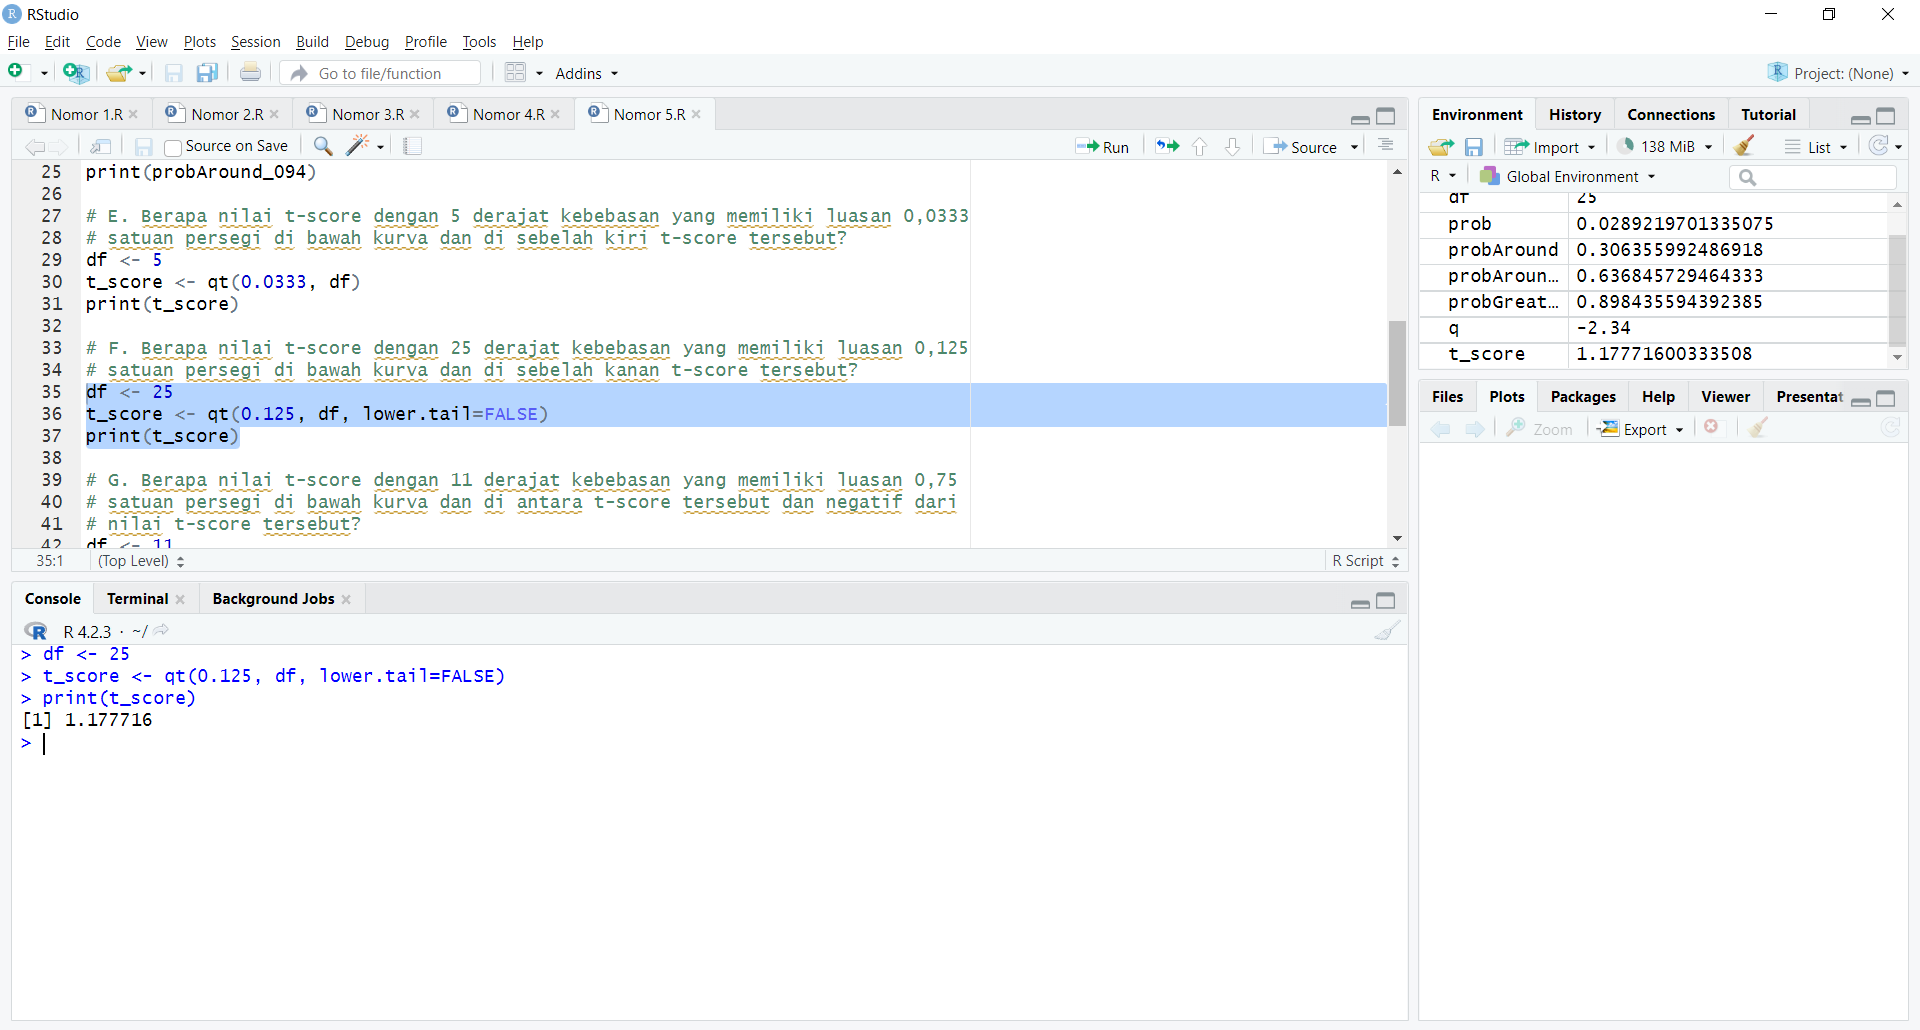
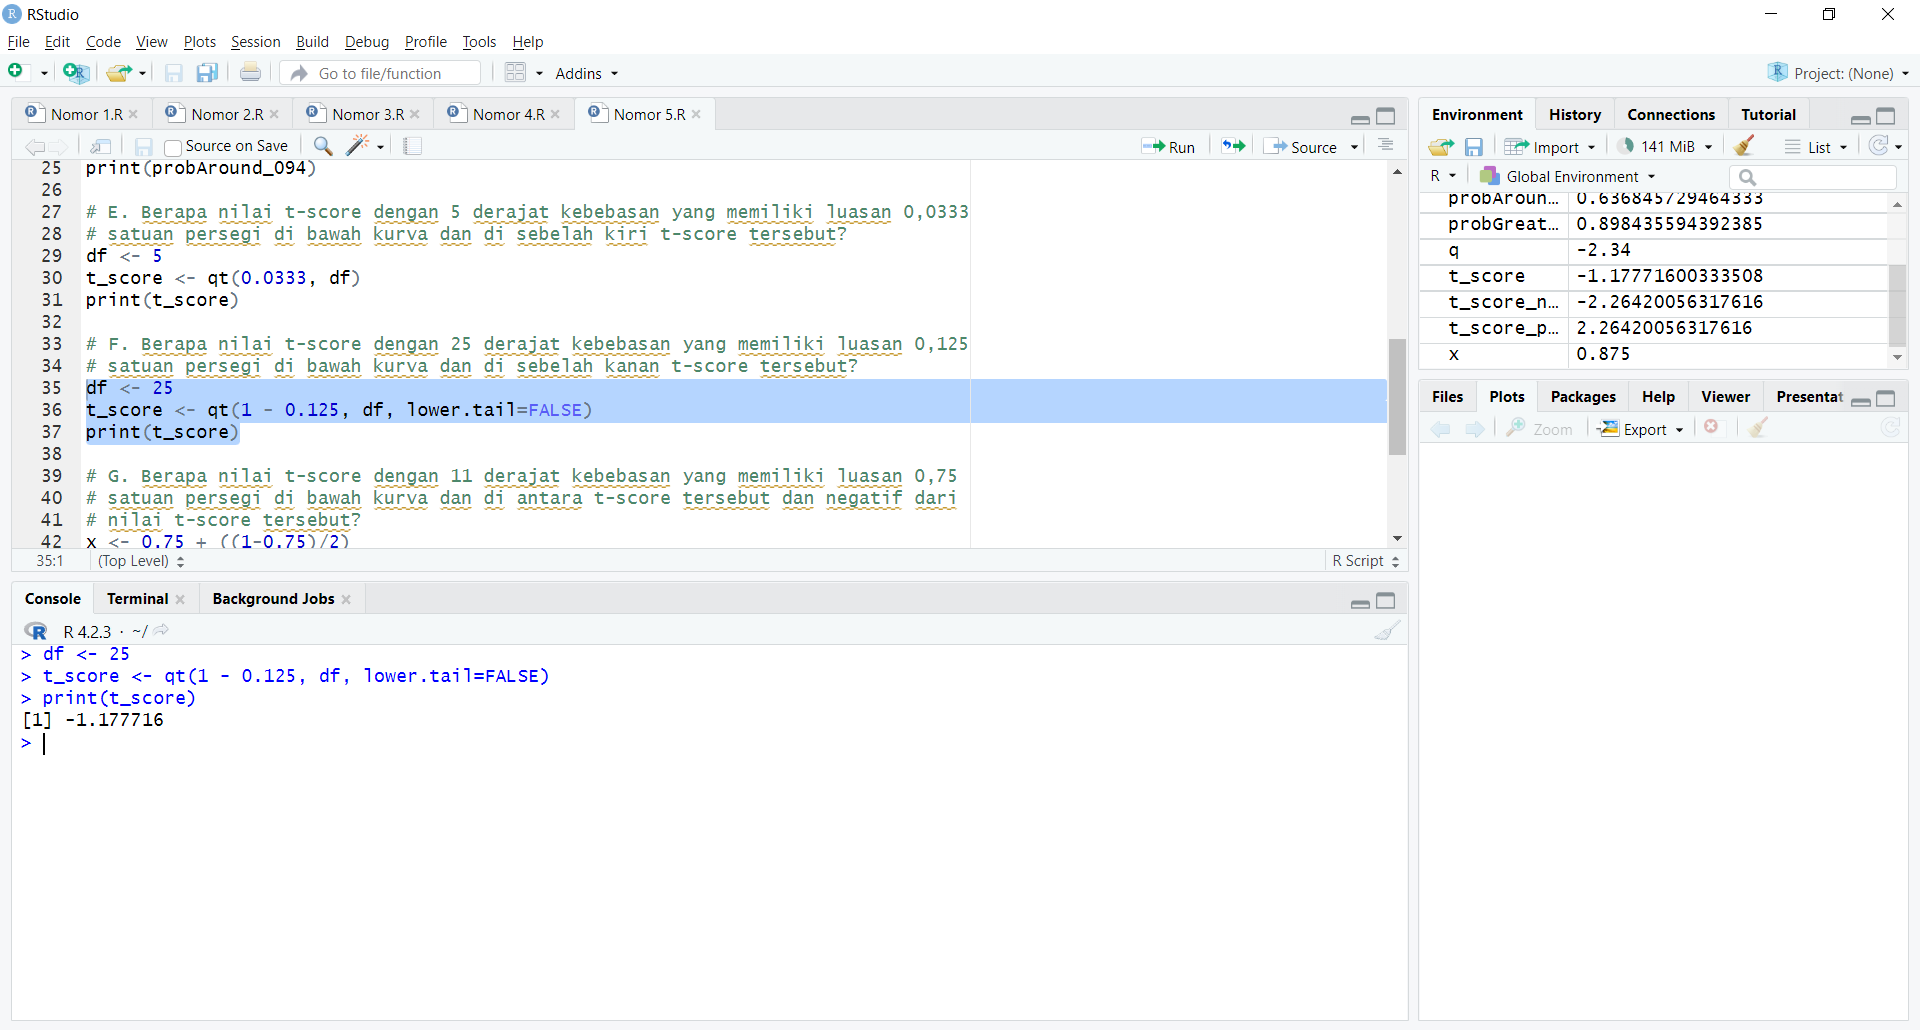
Fix Readme, add explanation, and image

diff --git a/README.md b/README.md
@@ -8,6 +8,8 @@ maka:
 
 ### A. Bagaimana pendistribusian banyak bayi laki-laki? Tentukan distribusi denganparameter yang sesuai.
 
+untuk mencari hasil distribusi, kita akan menggunakan fungsi ``dbinom()``
+
 ```R
 n <- 10
 p <- 0.488
@@ -20,6 +22,8 @@ Result:
 
 ### B. Berapa probabilitas bahwa tepat tiga bayi di antaranya berjenis kelamin lakilaki?
 
+untuk solusi tersebut kita akan menggunakna ``dbinom()`` dengan nilai **x** nya adalah 3
+
 ```R
 probTigaLakiLaki <- dbinom(3, n, p)
 print(probTigaLakiLaki)
@@ -28,6 +32,8 @@ Result:
 ![Hasil 2](https://github.com/DJumanto/Prak1_Probstat2023_C_5025211214/blob/main/Nomor%201/B.png?raw=true)
 
 ### C. Berapa probabilitas bahwa kurang dari tiga bayi di antaranya berjenis kelamin laki-laki?
+
+untuk mencari probabilitas kurang dari 3 bayi adalah laki-laki atau tidak laki-laki adalah dengan menggunakan ``pbinom()`` dengan value **q** adalah 2
 
 ```R
 probKurangDuaLakiLaki <- pbinom(2, n, p)
@@ -38,6 +44,8 @@ Result:
 
 ###  D. Berapa probabilitas bahwa tiga atau lebih bayi di antaranya berjenis kelamin laki-laki?
 
+Untuk mencari probabilitas 3 atau lebih bayi berjenis kelamin laki-laki, adalah dengan mencari nilai 1 - probabilitas kurang dari 2 bayi adalah laki-laki, cara lainnya adalha menggunakan ``pbinom()`` dan set ``lower.tail = false`` daripada true
+
 ```R
 probTigaAtauLebihLakiLaki <- 1 - probKurangDuaLakiLaki
 print(probTigaAtauLebihLakiLaki)
@@ -46,6 +54,8 @@ Result:
 ![Hasil 4](https://github.com/DJumanto/Prak1_Probstat2023_C_5025211214/blob/main/Nomor%201/D.png?raw=true)
 
 ### E. Berapa nilai harapan dan simpangan baku banyak bayi laki-laki?
+
+nilai harapan sama dengan mean yakni probabilitas dikali jumlah bayi-laki-laki. dan nilai simpangan baku adalah akar ``((1-p) * harapan)``
 
 ```R
 harapan <- p * n
@@ -56,6 +66,8 @@ Result:
 ![Hasil 5](https://github.com/DJumanto/Prak1_Probstat2023_C_5025211214/blob/main/Nomor%201/E.png?raw=true)
 
 ### F. Gambarkan histogram pendistribusian banyak bayi laki-laki!
+
+Untuk mencari nilai dari plot dari distirbusi adalah menggunakan ``rbinom()`` dan ``hist()`` untuk penggambaran histogram
 
 ```R
 hist(rbinom(100, n, p), main = "Histogram Distribusi Bayi Laki-laki", xlab = "Banyak Bayi Laki-Laki", ylab = "Frekuensi")
@@ -69,6 +81,8 @@ ban dalam 20 tahun ke depan adalah 1,8.
 
 ### A.  Bagaimana pendistribusian banyak kematian karena kanker tulang? Tentukan distribusi dengan parameter yang sesuai.
 
+Untuk solusi tersebutm kita perlu menggunakan ``dpois()``
+
 ```R
 lambd <- 1.8
 x <- 0:15
@@ -81,6 +95,7 @@ Result:
 
 ### B. Ada 4 kematian akibat kanker tulang yang dilaporkan di kalangan pekerja pabrik ban, apakah itu peristiwa yang tidak biasa? Hitung probabilitas berdasarkan distribusi yang telah dipilih.
 
+
 ```R
 probs <- dpois(4,lambd)
 cat("Probabilitas: ", probs)
@@ -89,6 +104,8 @@ Result:
 ![Hasil 8](https://github.com/DJumanto/Prak1_Probstat2023_C_5025211214/blob/main/Nomor%202/B.png?raw=true)
 
 ### C. Berapa peluang paling banyak 4 kematian akibat kanker tulang?
+
+Untuk mencari peluang dari 4 kematian adalah menggunakan ``ppois()``
 
 ```R
 probs <- ppois(4, lambd)
@@ -99,6 +116,8 @@ Result:
 
 ### D. Berapa peluang lebih dari 4 kematian akibat kanker tulang?
 
+Seperti solusi sebelumnya, kita hanya perlu mengurangi 1 - probabilitas dari 4 kematian atau gunakan ``ppois()`` dan set nilai ``lower.tail = false``
+
 ```R
 probs <- 1-(probs)
 cat("Peluang Kematian Lebih Dari 4 Akibat Kanker Tulang: ", probs)
@@ -107,6 +126,8 @@ Result:
 ![Hasil 10](https://github.com/DJumanto/Prak1_Probstat2023_C_5025211214/blob/main/Nomor%202/D.png?raw=true)
 
 ### E. Berdasarkan distribusi yang telah dipilih, berapakah nilai harapan dan standar deviasi banyak kematian akibat kanker tulang untuk pekerja pabrik ban?
+
+Nilai dari standar deviasi adalah akar kuadrat dari harapan yang nilainya sama dengan lambda
 
 ```R
 harapan <- lambd
@@ -118,6 +139,8 @@ Result:
 
 ### F. Gambarkan histogram pendistribusian banyak banyak kematian akibat kanker tulang untuk pekerja pabrik ban.
 
+Untuk solusi kali ini, kita gunakan ``rpois()`` dan ``hist()`` untuk menggambarkan distribusi
+
 ```R
 n <- 10
 hist(rpois(n, lambd),ylab="Frekuensi", main="Histogram Distribusi Kematian Akibat Kanker Tulang")
@@ -126,6 +149,8 @@ Result:
 ![Hasil 12](https://github.com/DJumanto/Prak1_Probstat2023_C_5025211214/blob/main/Nomor%202/F.png?raw=true)
 
 ### G. Gunakan simulasi untuk memeriksa hasil sebelumnya.
+
+Untuk simulasi kita akan gunakan ``rpois()``
 
 ```R
 set.seed(123321)
@@ -146,6 +171,8 @@ Diketahui nilai x = 3 dan v = 10. Tentukan:
 
 ### A. Fungsi probabilitas dari distribusi Chi-Square.
 
+Untuk solusi kali ini, kita akan menggunakan ``dchisq()``
+
 ```R
 x <- 3
 v <- 10
@@ -156,6 +183,8 @@ Result:
 
 ### B. Histogram dari distribusi Chi-Square dengan 500 data acak.
 
+Untuk data acak, kita akan menggunakan ``rchsiq()`` dan ``hist()`` untuk histogram
+
 ```R
 n <- 500
 hist(rchisq(n,v),main="Histogram Distribusi Chi-Square", xlab="X", ylab="V")
@@ -164,6 +193,8 @@ Result:
 ![Hasil 15](https://github.com/DJumanto/Prak1_Probstat2023_C_5025211214/blob/main/Nomor%203/B.png?raw=true)
 
 ### C. Nilai rataan (μ) dan varian (σ²) dari distribusi Chi-Square.
+
+nilai rataan didapat dari nilai v, dan nilai varian adalah 2 * v
 
 ```R
 μ <- v
@@ -188,6 +219,8 @@ rata-rata = 5.083333
 X1 = 5
 X2 = 6
 
+untuk bangkitan data acak, kita akan menggunakan ``rnorm()``. Lalu nilai P(X1 <= x <= X2) bisa kita dapatkan menggunakan ``pnorm()`` dari X2 dikurangi nilai ``pnorm()`` dari X1. Lalu hasil tersebut kita plot menggunakna ``plot()`` 
+
 ```R
 n <- 100
 mean <- 45
@@ -206,6 +239,8 @@ Result:
 
 ### B. Gambarkan histogram dari distribusi Normal dengan breaks 50
 
+Solusi tersebut bisa kita dapatkan dari penyelesaian sebelumnya dan kita buat hitogramnya dengan ``hist()`` dengan breaks 50 
+
 ```R
 breaks <- 50
 hist(gen, breaks, main = "Histogram Distribusi Normal")
@@ -214,6 +249,8 @@ Result:
 ![Hasil 18](https://github.com/DJumanto/Prak1_Probstat2023_C_5025211214/blob/main/Nomor%204/B.png?raw=true)
 
 ### C. Nilai varian (σ²) dari hasil data bangkitan acak distribusi Normal.
+
+varian bisa kita dapatkan dari hasil kuadrat standard deviasi.
 
 ```R
 varian <- (sd(gen)) ^ 2
@@ -238,6 +275,8 @@ Result:
 
 ### B. Berapa probabilitas terjadinya suatu peristiwa acak X lebih dari 1,34 dengan 6 derajat kebebasan?
 
+Probabilitas peristiwa acak X, bisa kita dapatkan dengan ``pt()`` dan ``lower.tail = FALSE``
+
 ```R
 df <- 1.34
 probGreaterThan_134 <- pt(q, df, lower.tail = FALSE)
@@ -247,6 +286,8 @@ Result:
 ![Hasil 21](https://github.com/DJumanto/Prak1_Probstat2023_C_5025211214/blob/main/Nomor%205/B.png?raw=true)
 
 ### C. Berapa probabilitas terjadinya suatu peristiwa acak X kurang dari -1,23 atau lebih besar dari 1,23 dengan 3 derajat kebebasan?
+
+Solusi teersebut bisa didaaptkan dengan mencari jumlah ``pt()`` pada dua batas. 
 
 ```R
 df <- 3
@@ -258,6 +299,8 @@ Result:
 
 ### D. Berapa probabilitas terjadinya suatu peristiwa acak X berada di antara -0,94 dan 0,94 dengan 14 derajat kebebasan?
 
+Solusi tersebut adalah dengan mengurangi nilai ``pt()`` batas kanan dan kiri.
+
 ```R
 df <- 14
 probAround_094 <- (pt(0.94, df) - pt(-0.94, df))
@@ -267,6 +310,8 @@ Result:
 ![Hasil 24](https://github.com/DJumanto/Prak1_Probstat2023_C_5025211214/blob/main/Nomor%205/D.png?raw=true)
 
 ### E. Berapa nilai t-score dengan 5 derajat kebebasan yang memiliki luasan 0,0333 satuan persegi di bawah kurva dan di sebelah kiri t-score tersebut?
+
+Nilai t_score bisa kita dapatkan dengan ``t_score()`` pada luasan 0,0333.
 
 ```R
 df <- 5
@@ -278,9 +323,11 @@ Result:
 
 ### F. Berapa nilai t-score dengan 25 derajat kebebasan yang memiliki luasan 0,125 satuan persegi di bawah kurva dan di sebelah kanan t-score tersebut?
 
+Mirip dengan sbeelumnya, namun untuk kali ini, kita berfokus pada t-score di sebelah kanan. sehingga kita set ``lower.tail = FALSE``. lalu untuk nilai x nya adlah 1 - 0,125
+
 ```R
 df <- 25
-t_score <- qt(0.125, df, lower.tail=FALSE)
+t_score <- qt(1 - 0.125, df, lower.tail=FALSE)
 print(t_score)
 ```
 Result:
@@ -288,9 +335,12 @@ Result:
 
 ### G. Berapa nilai t-score dengan 11 derajat kebebasan yang memiliki luasan 0,75 satuan persegi di bawah kurva dan di antara t-score tersebut dan negatif dari nilai t-score tersebut?
 
+Untuk problem kali ini, kita akan menggunakan nilai x nya adalah 0.75 + ((1-0.75)/2) untuk nilai luasan  0,75 di bawah kurva dan diantara t-score.
+
 ```R
+x <- 0.75 + ((1-0.75)/2)
 df <- 11
-t_score <- qt(0.75, df=df, lower.tail=TRUE)
+t_score <- qt(x, df=df, lower.tail=TRUE)
 print(t_score)
 ```
 Result:
@@ -298,12 +348,13 @@ Result:
 
 ### H. Berapa nilai t-score dengan 23 derajat kebebasan yang memiliki luasan 0,0333 satuan persegi di bawah kurva dan di luar interval antara t-score tersebut dan negatif dari nilai t-score tersebut?
 
+Luasan bisa didapatkan dengan membagi 2 total luasan yakni 0,0333. Nilai t-score di sebelah kiri, bisa didapatkan dengan mencari nilai 1 - 0,0333/2. dengan begitu nilai x yang kita gunakan adalah (1 - 0,0333/2) 
+
 ```R
+x <- (1 - (0,0333/2))
 df <- 23
-t_score_positive <- qt(0.01665, df=23, lower.tail=FALSE)
-t_score_negative <- qt(0.01665, df=23, lower.tail=TRUE)
-cat("t-score Positive: ", t_score_positive)
-cat("t-score Negative: ", t_score_negative)
+t_score <- qt(x, df=23)
+cat("t-score: ", t_score)
 ```
 Result:
 ![Hasil 28](https://github.com/DJumanto/Prak1_Probstat2023_C_5025211214/blob/main/Nomor%205/H.png?raw=true)
